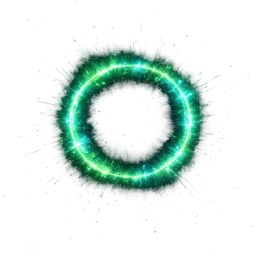
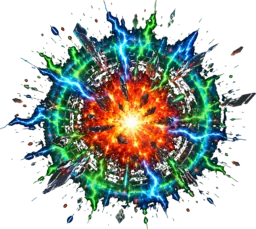
Phase Q: restore original projectiles and impact VFX

diff --git a/src/game/core/Game2A.ts b/src/game/core/Game2A.ts
@@ -14,7 +14,7 @@ type Mode = 'title' | 'select' | 'play' | 'results' | 'victory';
 type Actor = { x: number; y: number; w: number; h: number; vx: number; vy: number; hp?: number; life?: number };
 type EnemyActor = Actor & { enemyKey: string; age: number; anchorX: number; phase: number; direction: -1 | 1 };
 type HazardActor = Actor & { hazardKey: string; fireClock: number; side: -1 | 1 };
-type HostileProjectile = Actor & { damage: number; color: string };
+type HostileProjectile = Actor & { damage: number; color: string; projectileKey: string };
 type BossActor = Actor & {
   bossKey: string;
   state: 'intro' | 'fight';
@@ -318,6 +318,7 @@ export class Game2A {
         vy: (dy / length) * hazardDef.projectileSpeed,
         damage: 1,
         color: hazardDef.accent,
+        projectileKey: 'enemy_missile',
       });
       hazard.fireClock = hazardDef.fireRate;
     }
@@ -407,6 +408,7 @@ export class Game2A {
         vy: Math.sin(angle) * phase.projectileSpeed,
         damage: 1,
         color: phase.accent,
+        projectileKey: 'enemy_red_bullet',
       });
     }
   }
@@ -784,6 +786,17 @@ export class Game2A {
   }
 
   private drawHostileShot(shot: HostileProjectile): void {
+    const projectile = this.projectileDef(shot.projectileKey);
+    const image = this.assets.getImage(projectile.sprite.category, projectile.sprite.id);
+    if (image) {
+      this.ctx.save();
+      this.ctx.translate(shot.x, shot.y);
+      // Canon projectile masters point upward; align that nose with velocity.
+      this.ctx.rotate(Math.atan2(shot.vy, shot.vx) + Math.PI / 2);
+      this.ctx.drawImage(image, -projectile.draw.w / 2, -projectile.draw.h / 2, projectile.draw.w, projectile.draw.h);
+      this.ctx.restore();
+      return;
+    }
     this.ctx.save();
     this.ctx.strokeStyle = shot.color;
     this.ctx.shadowColor = shot.color;

diff --git a/src/game/content/registry.ts b/src/game/content/registry.ts
@@ -116,9 +116,23 @@ export const PROJECTILES: Record<string, ProjectileDef> = {
   bb_shot: {
     key: 'bb_shot',
     sprite: { category: 'projectiles', id: 'bb_shot' },
-    draw: { w: 8, h: 24 },
+    draw: { w: 10, h: 30 },
     hitbox: { w: 5, h: 20 },
     speed: 720,
+  },
+  enemy_red_bullet: {
+    key: 'enemy_red_bullet',
+    sprite: { category: 'projectiles', id: 'enemy_red_bullet' },
+    draw: { w: 12, h: 30 },
+    hitbox: { w: 10, h: 10 },
+    speed: 240,
+  },
+  enemy_missile: {
+    key: 'enemy_missile',
+    sprite: { category: 'projectiles', id: 'enemy_missile' },
+    draw: { w: 12, h: 42 },
+    hitbox: { w: 9, h: 9 },
+    speed: 235,
   },
 };
 

diff --git a/docs/phase-q-original-projectiles-vfx.md b/docs/phase-q-original-projectiles-vfx.md
@@ -1,0 +1,14 @@
+# Phase Q — Original projectiles and impact VFX
+
+This phase restores original-build v16 art to the remaining live procedural combat slots.
+
+## Live replacements
+
+- Player BB shot: `projectile_player_bb`
+- Boss shot: `projectile_enemy_red_bullet`
+- Ground-defense shot: `projectile_enemy_missile`
+- Impact burst: `fx_explosion_impact`
+
+The opaque black master backgrounds were keyed to alpha, trimmed, resized for their live draw boxes, and exported as optimized WebP. Hostile projectile art rotates with its velocity; collision sizes, speeds, damage, firing cadence, and encounter balance are unchanged. Procedural hostile-shot rendering remains available when an asset fails to load.
+
+Raw masters and the handoff archive remain outside the deploy repository.
